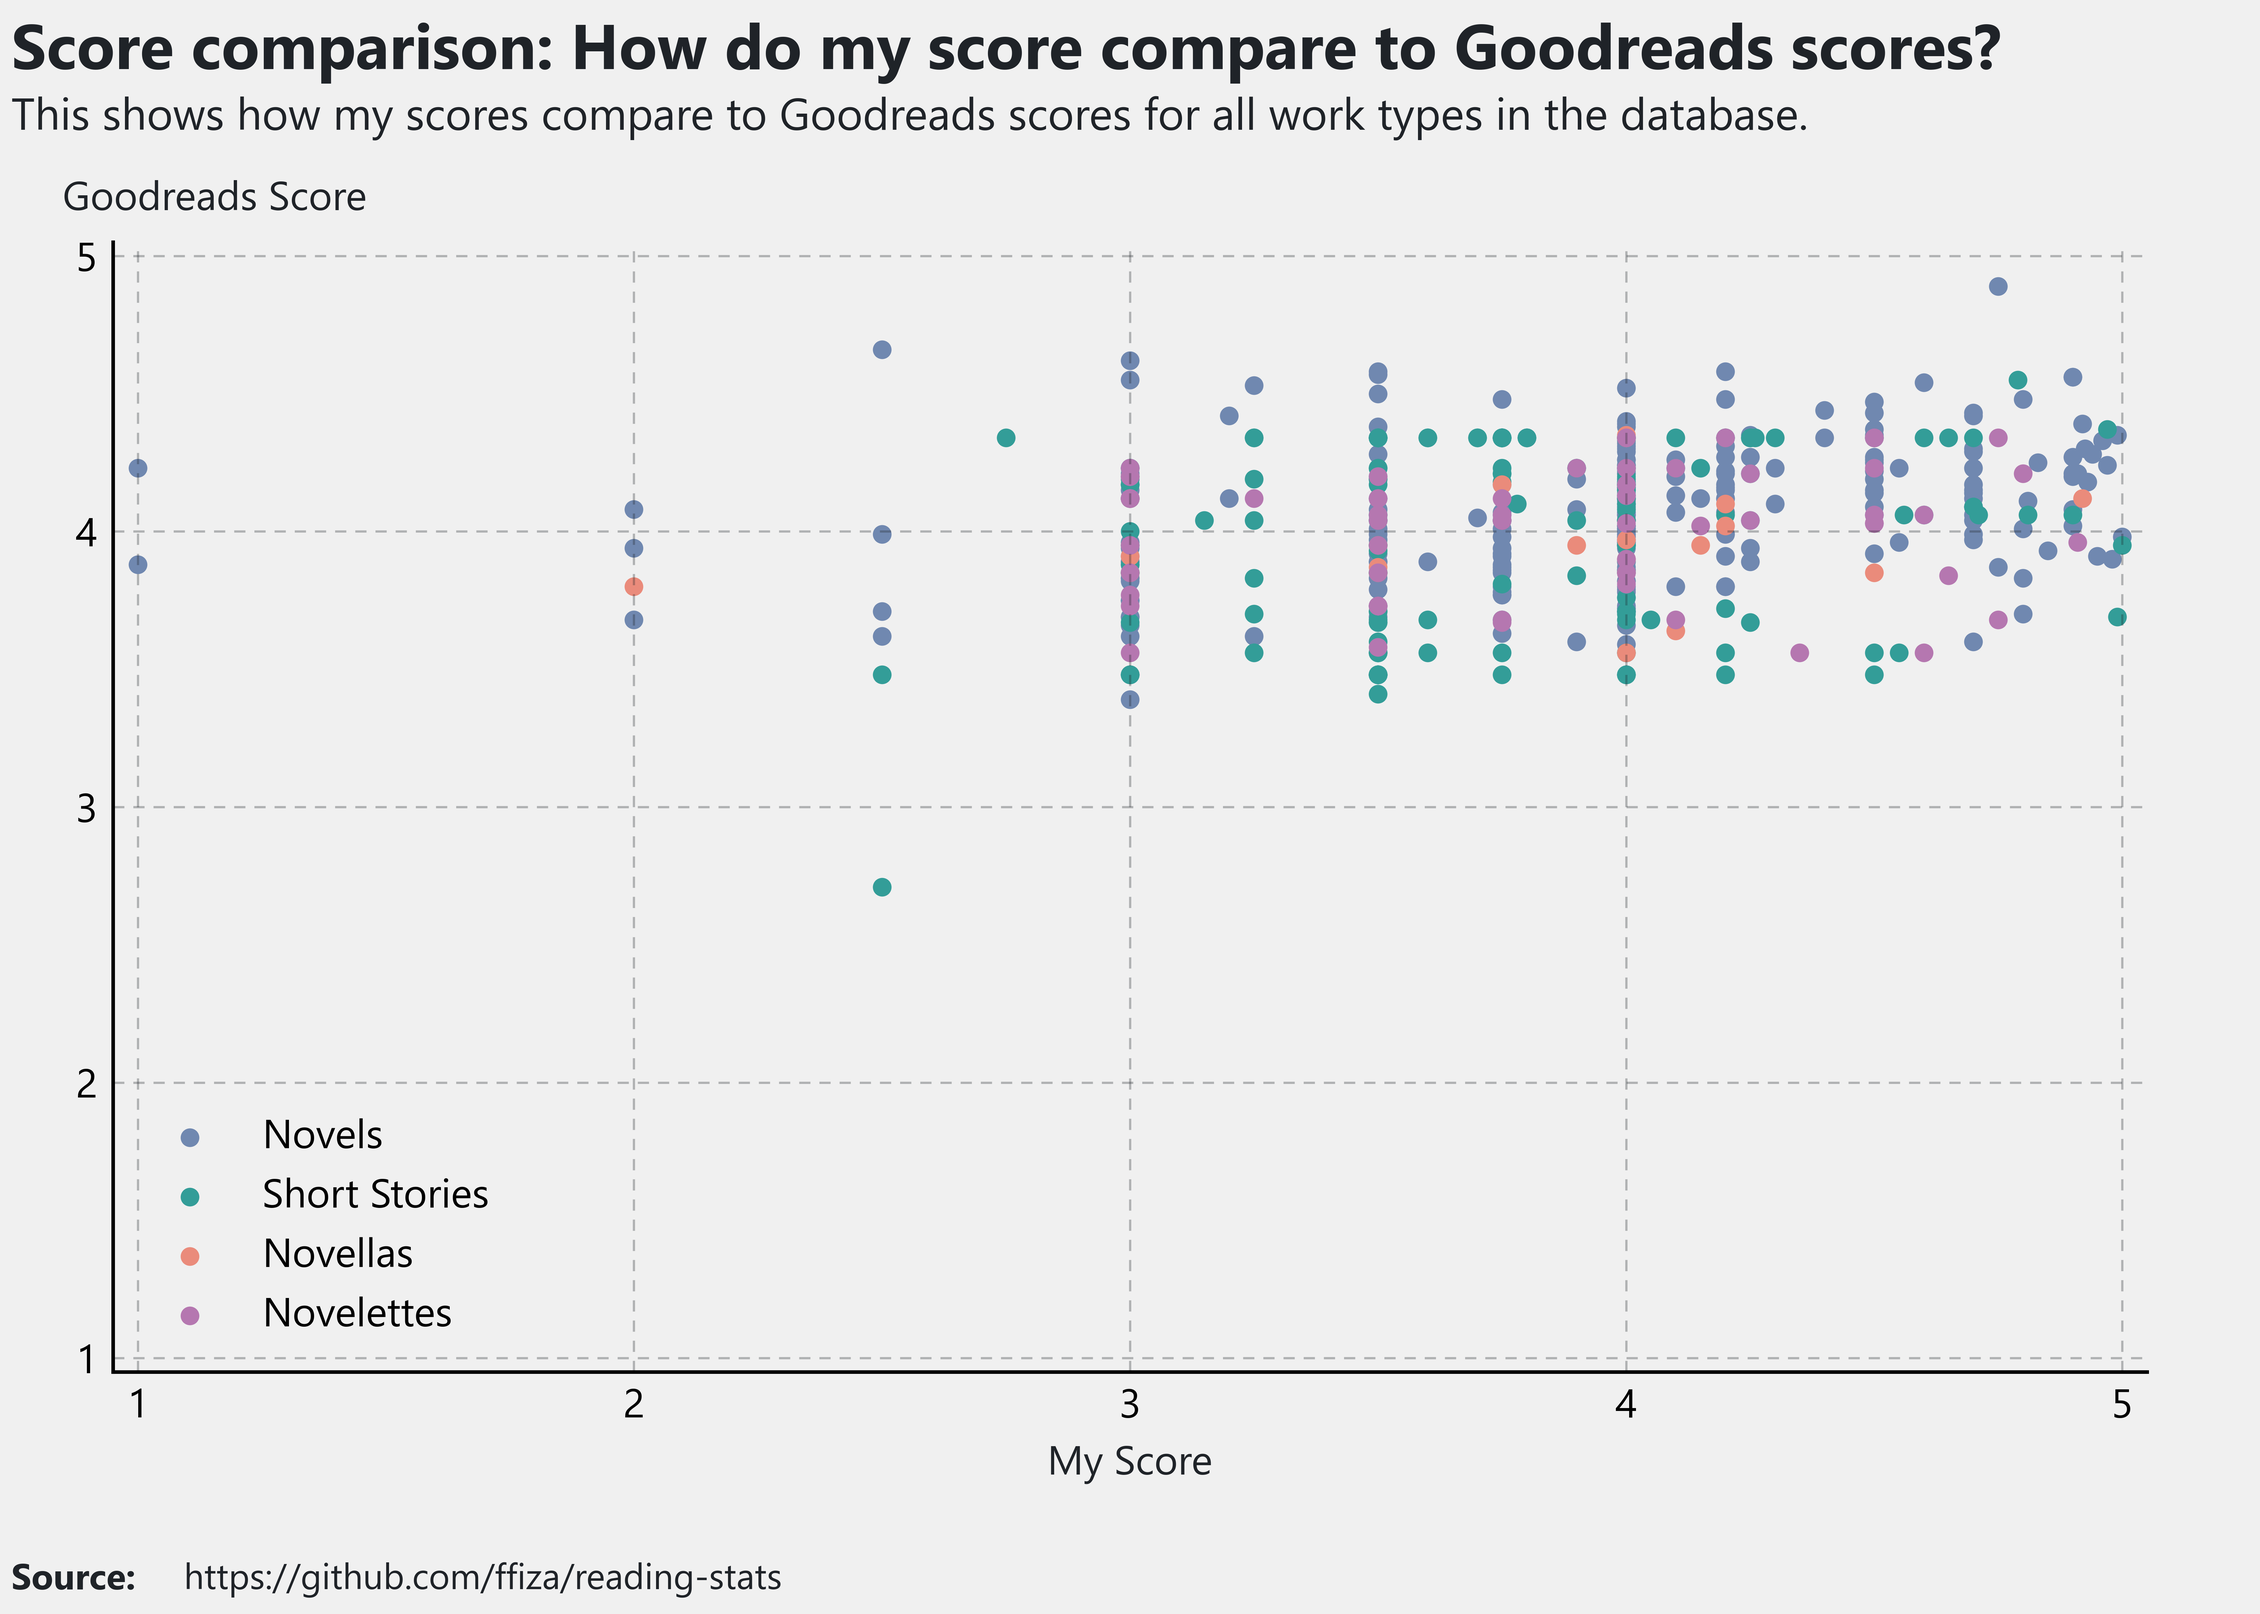
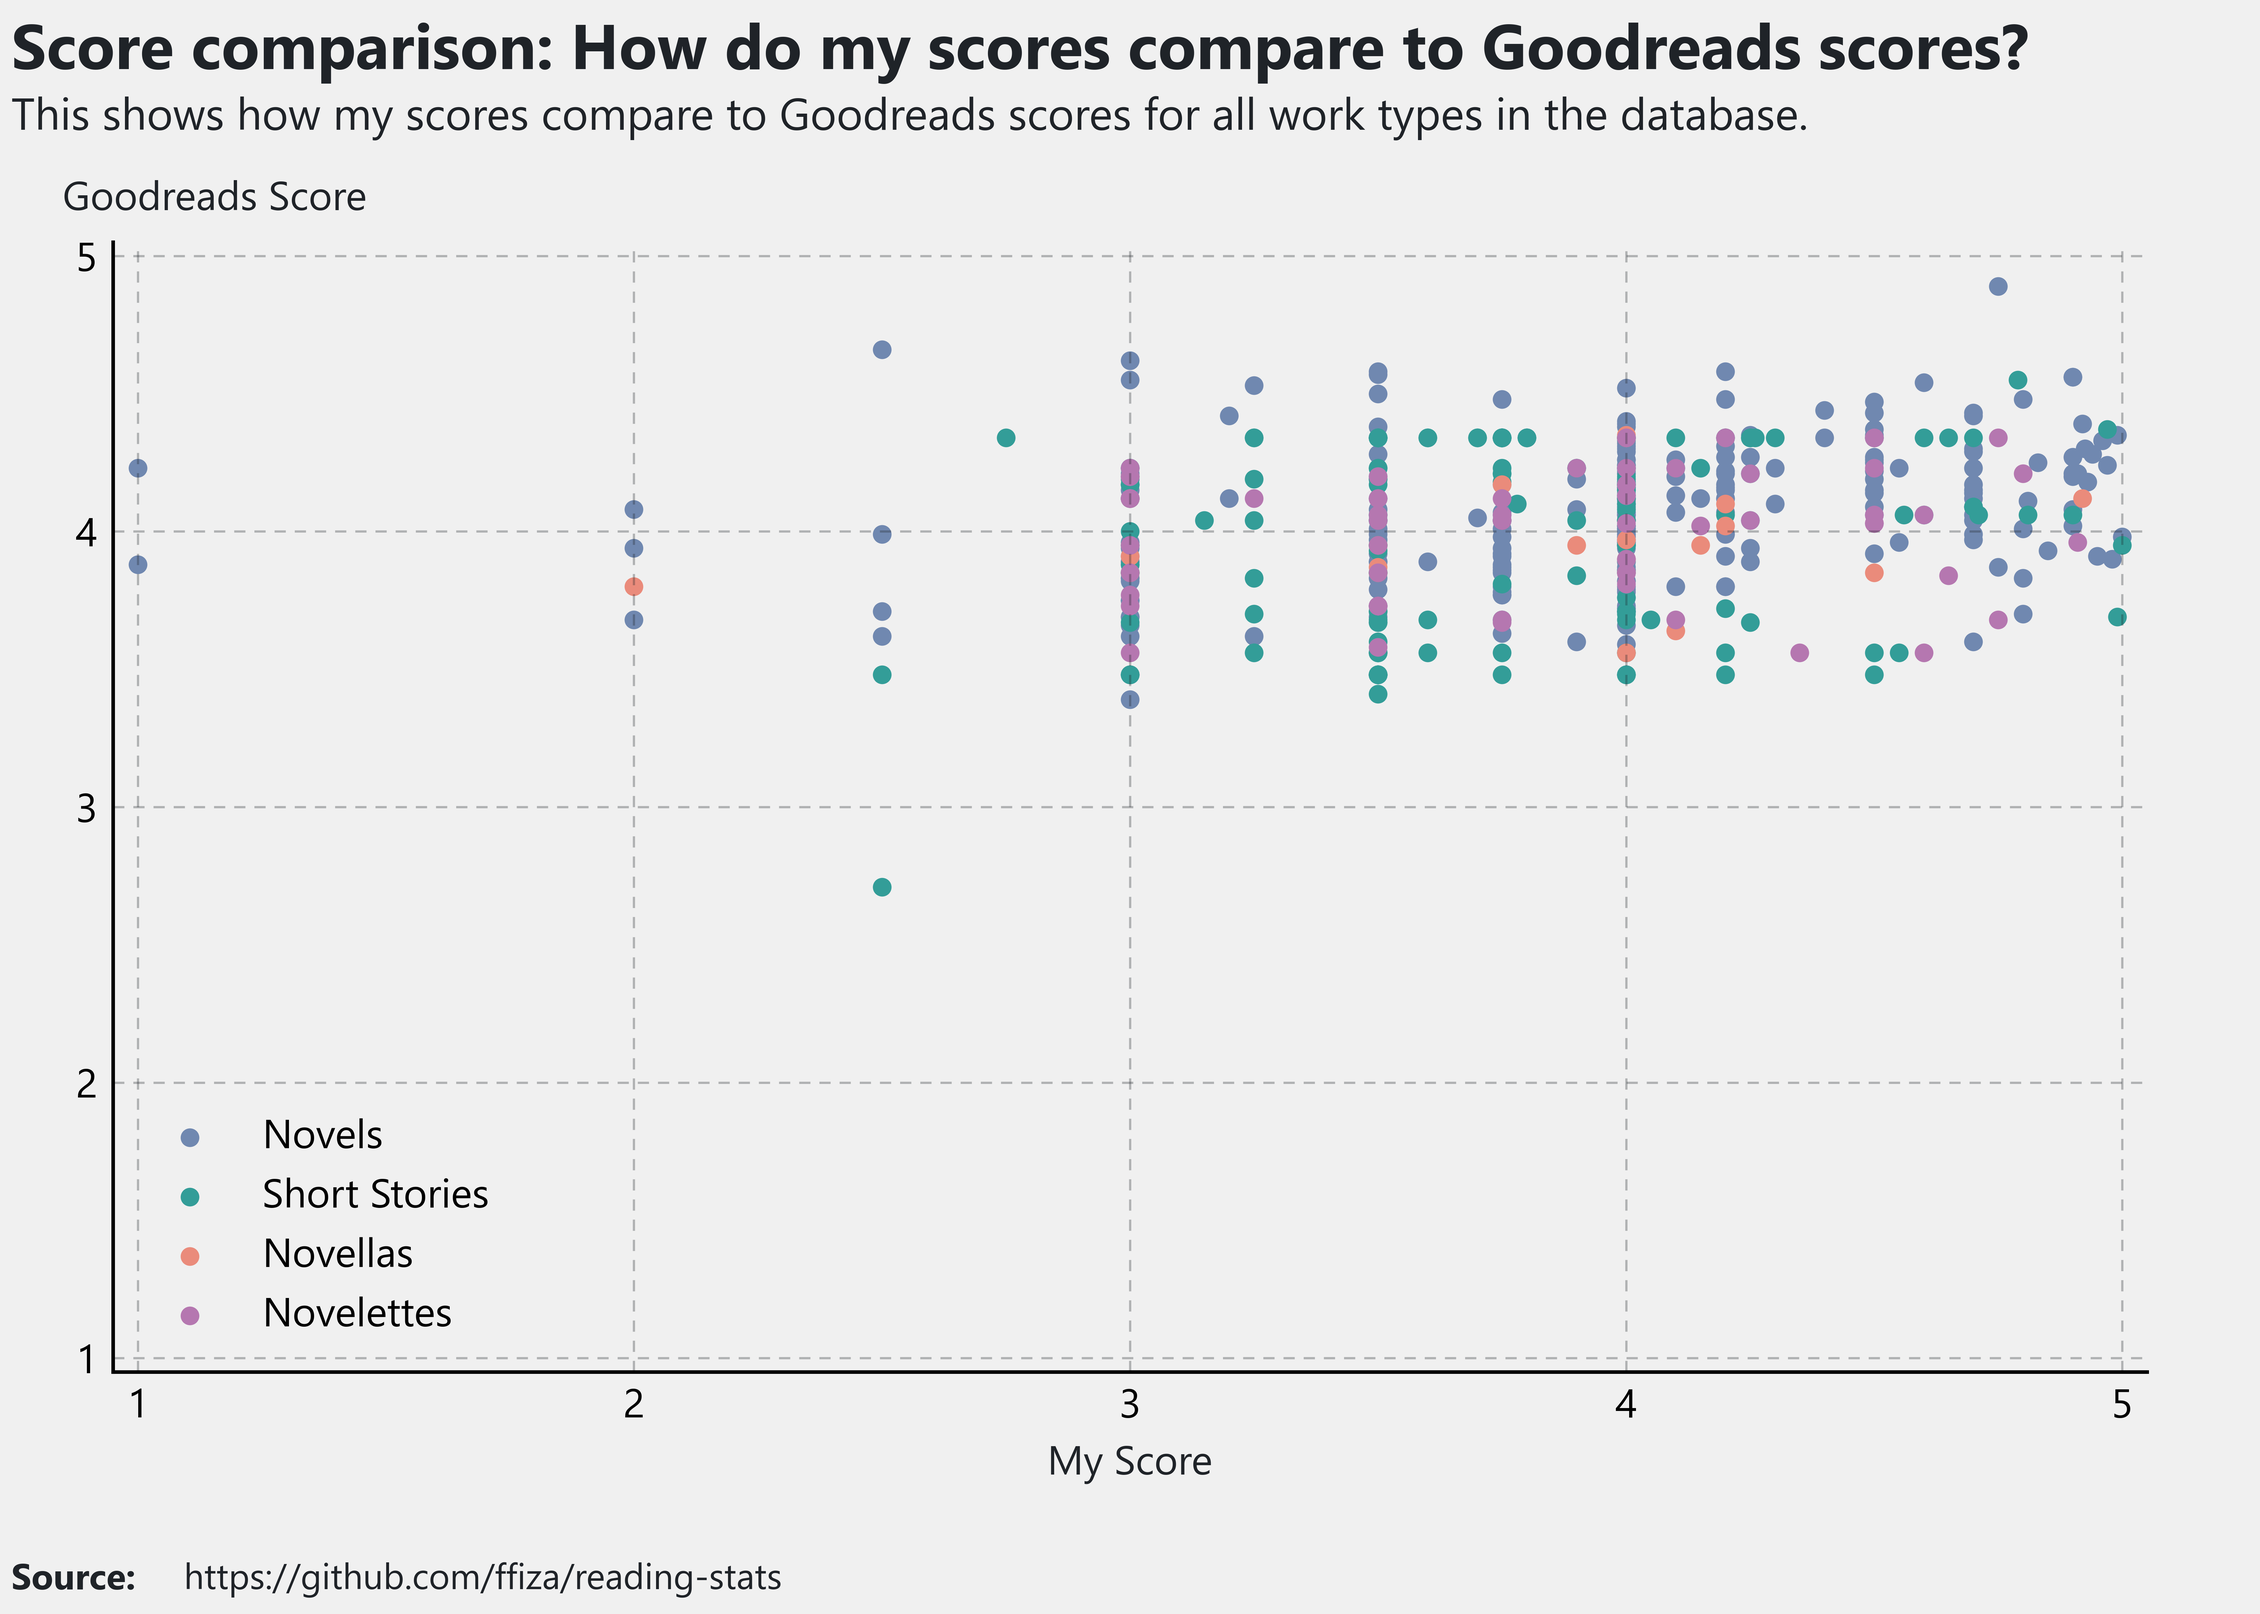
Fix typo.

Changed region(s): [[0.4671, 0.0, 0.9031, 0.0624]]

diff --git a/src/works.py b/src/works.py
@@ -69,7 +69,7 @@ def plot_works_score_scatter(df: pd.DataFrame) -> None:
     plt.text(
         -0.05, 1.14, va="bottom", ha="left", fontsize=14,
         transform=ax.transAxes, color=Colors.DARKGRAY,
-        s=f"Score comparison: How do my score compare to Goodreads scores?",
+        s=f"Score comparison: How do my scores compare to Goodreads scores?",
         fontname=Settings.FONTNAME, weight=800)
     plt.text(
         -0.05, 1.09, va="bottom", ha="left", fontsize=10,
